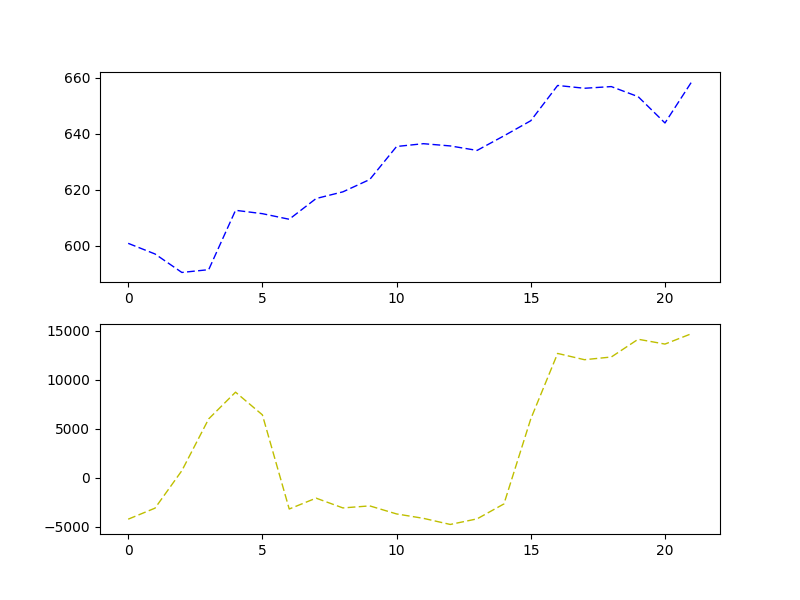
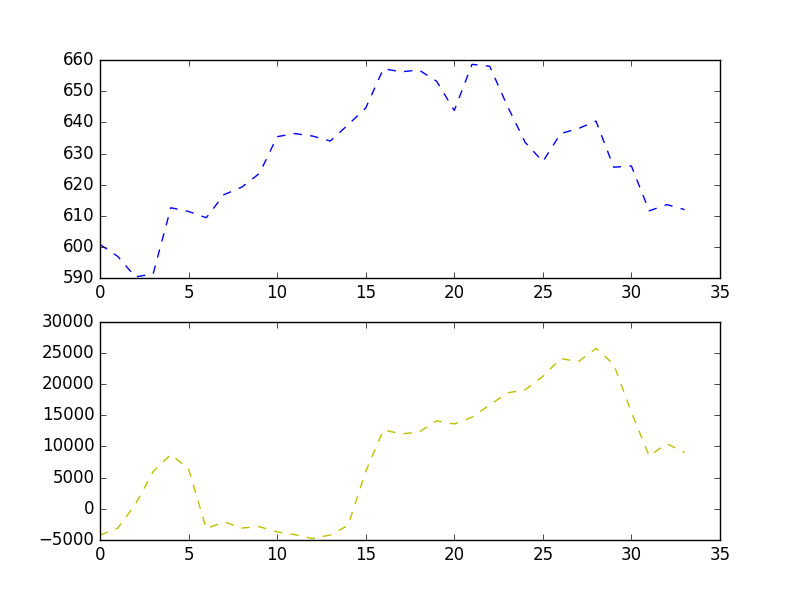
Add new data of ZC1801

diff --git a/mplotting.py b/mplotting.py
@@ -2,25 +2,33 @@
 import numpy as np
 import matplotlib.pyplot as plt
 
-# X轴，Y轴数据
-x = [0, 1, 2, 3, 4, 5, 6, 7, 8, 9, 10, 11, 12, 13, 14, 15, 16, 17, 18, 19, 20, 21]
-# ZC1801' Value
-y = [600.8, 597, 590.4, 591.4, 612.6, 611.4, 609.4, 616.8, 619.2, 623.6, 635.4, 636.4, 635.6, 634, 639.2, 644.6, 657.2, 656.2, 656.8, 653.2, 643.8, 658.6]
-#YAQH's open interest
-zd = [3588, 2367, 5935, 9939, 16417, 14124, 4065, 3963, 3859, 4073, 4540, 4820, 4713, 4726, 5386, 13815, 20739, 21181, 21911, 23482, 23341, 25483]
-zk = [7816, 5471, 5218, 3945, 7700,  7718,  7256, 6046, 6939, 6946, 8233, 8962, 9478, 8921, 8058, 7820,  8075,  9156,  9611,  9372,  9723,  10792]
-zz = list(map(lambda x:x[0] - x[1], zip(zd, zk)))
+
 
 """
-plt.figure(figsize=(10, 6))  # 创建绘图对象
-plt.xlabel("Time(s)")  # X轴标签
-plt.ylabel("Volt")   # Y轴标签
-plt.title("ZC1801")  # 图标题
-plt.plot(x, y, "b--", linewidth=1)  # 在当前绘图对象绘图（X轴，Y轴，蓝色虚线，线宽度）
-plt.plot(x, z, "y--", linewidth=1)
-plt.show()  # 显示图
-plt.savefig("line.jpg")  # 保存图
+    #8月21日至9月19日的动力煤1801合约数据;
+    #x为日期数据,y为结算价格,zd为多头持仓量,zk为空头持仓量,z为净持仓量;
+    #日期: ['0821','0822','0823','0824','0825','0828','0829','0830','0831',
+            '0901','0905','0906','0907','0908','0911','0912','0913','0914','0915','0918','0919','0920', '0921', '0922', '0925', '0926', '0927', '0928', '0929',
+            '1009', '1010', '1011', '1012']
 """
+
+x = [0, 1, 2, 3, 4, 5, 6, 7, 8, 9, 10, 11, 12, 13, 14, 15, 16, 17, 18, 19, 20, 21, 22, 23, 24, 25, 26, 27, 28, 29, 30, 31, 32, 33]
+
+# ZC1801日结算价
+y = [600.8, 597, 590.4, 591.4, 612.6, 611.4, 609.4, 616.8, 619.2,
+     623.6, 635.4, 636.4, 635.6, 634, 639.2, 644.6, 657.2, 656.2, 656.8, 653.2, 643.8, 658.6,
+     658, 645.2, 633.6, 627.4, 636.4, 638, 640.4, 625.6,
+     626, 611.6, 613.6, 612]
+
+#YAQH's 多空持仓量及净持仓量
+zd = [3588, 2367, 5935, 9939, 16417, 14124, 4065, 3963, 3859,
+      4073, 4540, 4820, 4713, 4726, 5386, 13815, 20739, 21181, 21911, 23482, 23341, 25483, 27845, 27245, 27314, 27864, 30508, 30468, 29802, 27370,
+      19877, 13787, 15614, 13836]
+zk = [7816, 5471, 5218, 3945, 7700,  7718,  7256, 6046, 6939, 6946, 8233, 8962, 9478, 8921, 8058, 7820,  8075,  9156,  9611,  9372,  9723,  10792,
+      11179, 8645, 8234, 6612, 6389, 6874, 4066, 4184,
+      4408, 5308, 5163, 4828]
+zj = list(map(lambda x:x[0] - x[1], zip(zd, zk)))
+
 
 MMarket = plt.figure(figsize=(8,6))
 ax1 = MMarket.add_subplot(2, 1, 1)
@@ -29,19 +37,6 @@ ax2 = MMarket.add_subplot(2, 1, 2)
 #ax1.title("ZC1801 Value")
 ax1.plot(x, y, "b--", linewidth=1)
 #ax2.title("YAQH's open intersest")
-ax2.plot(x, zz, "y--", linewidth=1)
-MMarket.show()
+ax2.plot(x, zj, "y--", linewidth=1)
 plt.savefig("ZC1801")
-
-
-
-
-#data: ['0821','0822','0823','0824','0825','0828','0829','0830','0831','0901','0905','0906','0907','0908','0911','0912','0913','0914','0915','0918','0919']
-
-
-#data:[600.8, 597, 590.4, 591.4, 612.6, 611.4, 609.4, 616.8, 619.2, 623.6, 635.4, 636.4, 635.6, 634, 639.2, 644.6, 657.2, 656.2, 656.8, 653.2, 643.8, 658.6]
-#data:[6008, 5970, 5904, 5914, 6126, 6114, 6094, 6168, 6192, 6236, 6354, 6364, 6356, 6340, 6392, 6446, 6572, 6562, 6568, 6532, 6438, 6586]
-#data:[6008*3, 5970*3, 5904*3, 5914*3, 6126*3, 6114*3, 6094*3, 6168*3, 6192*3, 6236*3, 6354*3, 6364*3, 6356*3, 6340*3, 6392*3, 6446*3, 6572*3, 6562*3, 6568*3, 6532*3, 6438*3, 6586*3]
-
-
-#data:[3588, 2265, 5935, 9939, 16417, 14124, 4065, 3963, 3859, 4073, 4540, 4820, 4713, 4726, 5386, 13815, 20739, 21181, 21911, 23482, 23341, 25483]
+MMarket.show()
